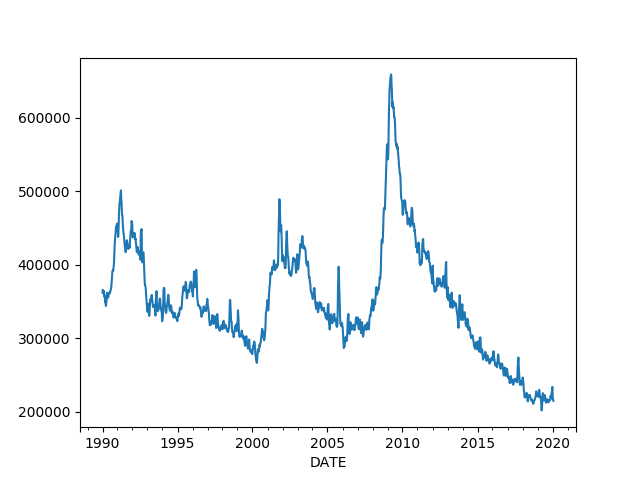
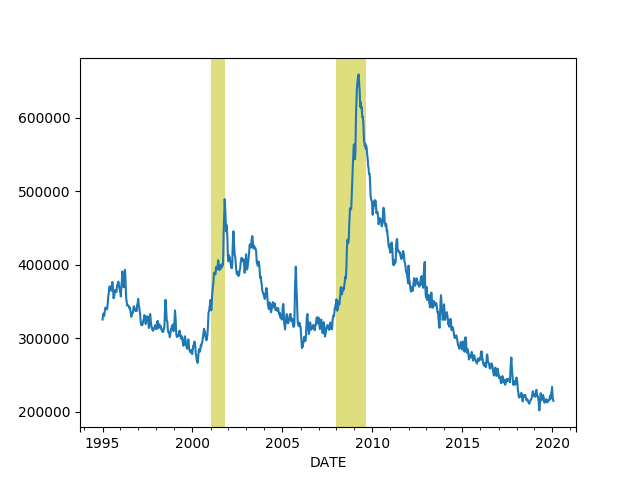
-

Changed region(s): [[0.1562, 0.125, 0.875, 0.9375], [0.6875, 0.9062, 0.7812, 0.9375], [0.1562, 0.9062, 0.1875, 0.9375]]

diff --git a/en/2019/05/stats.md b/en/2019/05/stats.md
@@ -223,11 +223,13 @@ import pandas as pd, datetime
 from pandas_datareader import data
 
 today = datetime.datetime.now()
-start=datetime.datetime(1990, 1, 1)
+start=datetime.datetime(1995, 1, 1)
 end=datetime.datetime(today.year, today.month, today.day)
 cols = ['IC4WSA']
 df = data.DataReader(cols, 'fred', start, end)
 df.IC4WSA.plot()
+plt.axvspan('01-03-2001', '27-10-2001', color='y', alpha=0.5, lw=0)
+plt.axvspan('22-12-2007', '09-05-2009', color='y', alpha=0.5, lw=0)
 plt.savefig('initial-claims.png')
 ```
 
